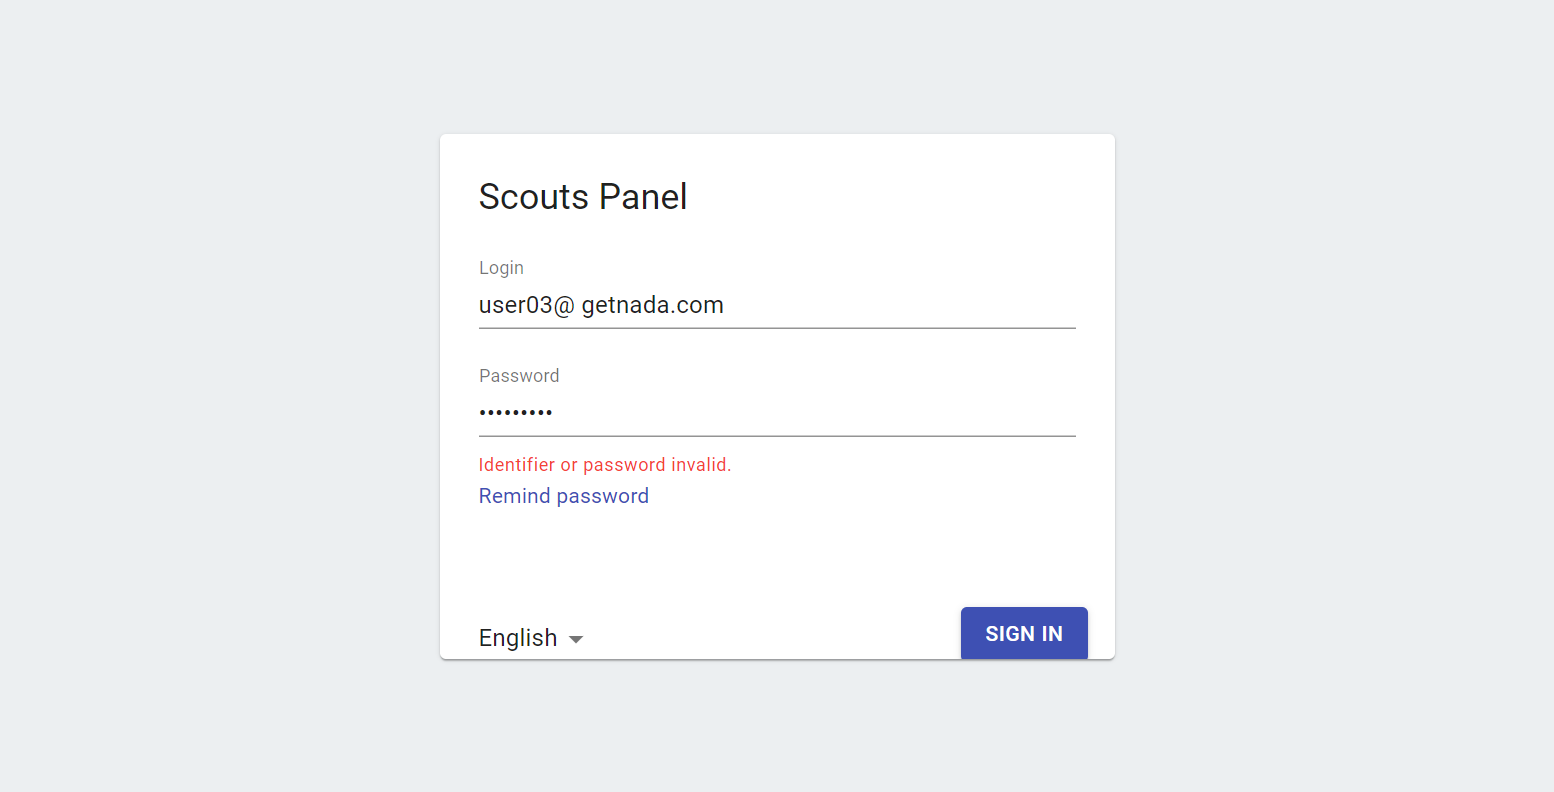
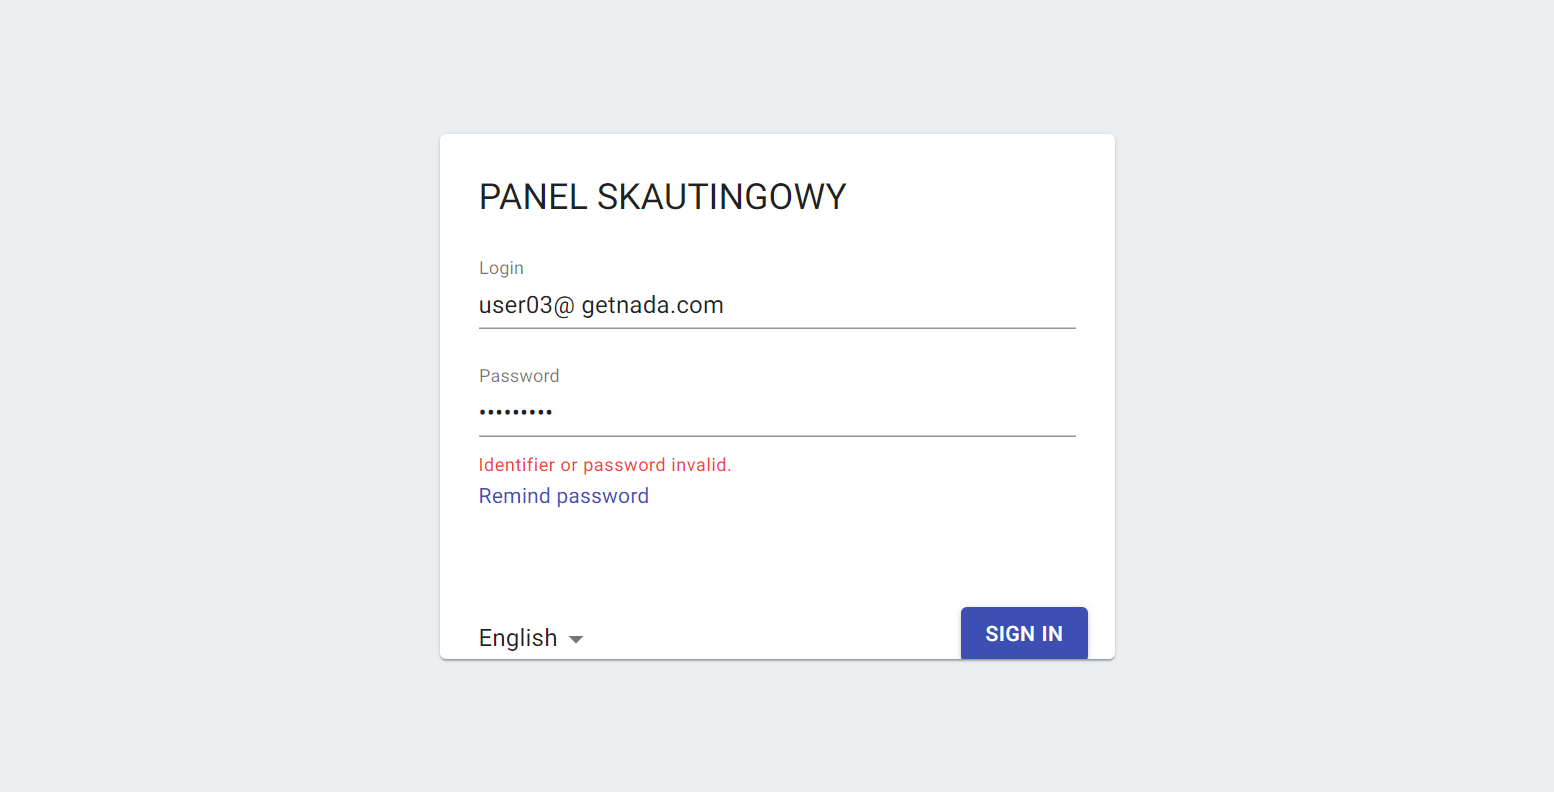
Minor changes
Minor changes to the code due to new website pass

diff --git a/pages/add_player_page.py b/pages/add_player_page.py
@@ -1,22 +1,26 @@
+import time
+
 from pages.base_page import BasePage
 
 
 class AddPlayer(BasePage):
     login_field_xpath = "//input[@id='login']"
-    login_url = "https://scouts-test.futbolkolektyw.pl/en"
+    login_url = "https://scouts.futbolkolektyw.pl/en/"
     password_field_xpath = "//*[@id='password']"
     sign_in_button_xpath = "//*[text()= 'Sign in']"
     expected_title = 'Scouts panel - sign in'
     title_of_box_xpath = "//h5[text()='Scouts Panel']"
     add_name_xpath = "//*[@name ='name']"
-    add_player_url = "https://scouts-test.futbolkolektyw.pl/en/players/add"
+    add_player_url = "https://scouts.futbolkolektyw.pl/en/players/add"
     add_surname_xpath = "//*[@name ='surname']"
     add_age_xpath = "//*[@name ='age']"
     add_main_position_xpath = "//*[@name ='mainPosition']"
     submit_button_xpath = "//*[@type='submit']"
     expected_add_player_title = 'Add player'
+    previous_club_xpath = "//*[@name ='exClub']"
 
     def title_of_page(self):
+        #time.sleep(10)
         assert self.get_page_title(self.add_player_url) == self.expected_add_player_title
 
     def type_in_name(self, name):
@@ -30,6 +34,9 @@ class AddPlayer(BasePage):
 
     def type_in_position(self, pos):
         self.field_send_keys(self.add_main_position_xpath, pos)
+
+    def type_in_previous_club(self, previous_club):
+        self.field_send_keys(self.previous_club_xpath, previous_club)
 
     def click_on_the_add_player_button(self):
         self.wait_for_element_to_be_clickable(self.submit_button_xpath)

diff --git a/test_cases/add_new_player_to_the_system.py b/test_cases/add_new_player_to_the_system.py
@@ -15,7 +15,7 @@ class TestAddPlayer(unittest.TestCase):
     def setUp(self):
         os.chmod(DRIVER_PATH, 755)
         self.driver = webdriver.Chrome(executable_path=DRIVER_PATH)
-        self.driver.get('https://scouts-test.futbolkolektyw.pl/en')
+        self.driver.get('https://scouts.futbolkolektyw.pl/en/')
         self.driver.fullscreen_window()
         self.driver.implicitly_wait(IMPLICITLY_WAIT)
 
@@ -33,6 +33,7 @@ class TestAddPlayer(unittest.TestCase):
         player_surname = 'Surname'
         player_age = '07/07/2007'
         player_position = 'goalkeeper'
+        previous_club = 'none'
 
         add_player = AddPlayer(self.driver)
         add_player.title_of_page()
@@ -40,6 +41,7 @@ class TestAddPlayer(unittest.TestCase):
         add_player.type_in_surname(player_surname)
         add_player.type_in_age(player_age)
         add_player.type_in_position(player_position)
+        add_player.type_in_previous_club(previous_club)
         add_player.click_on_the_add_player_button()
 
         dashboard_page.find_user(player_name + ' ' + player_surname)

diff --git a/pages/login_page.py b/pages/login_page.py
@@ -7,12 +7,12 @@ from selenium.webdriver.support import expected_conditions as EC
 
 class LoginPage(BasePage):
     login_field_xpath = "//input[@id='login']"
-    login_url = "https://scouts-test.futbolkolektyw.pl/en"
+    login_url = "https://scouts.futbolkolektyw.pl/en/"
     password_field_xpath = "//*[@id='password']"
     sign_in_button_xpath = "//*[text()= 'Sign in']"
 
     expected_title = 'Scouts panel - sign in'
-    header_of_box = 'Scouts Panel'
+    header_of_box = 'PANEL SKAUTINGOWY'
     get_password_reminder = "//a"
 
     header_of_box_xpath = '//h5'

diff --git a/test_cases/dashboard_page.py b/test_cases/dashboard_page.py
@@ -15,7 +15,7 @@ class TestDashboardPage(unittest.TestCase):
     def setUp(self):
         os.chmod(DRIVER_PATH, 755)
         self.driver = webdriver.Chrome(executable_path=DRIVER_PATH)
-        self.driver.get('https://scouts-test.futbolkolektyw.pl/en')
+        self.driver.get('https://scouts.futbolkolektyw.pl/en/')
         self.driver.fullscreen_window()
         self.driver.implicitly_wait(IMPLICITLY_WAIT)
 

diff --git a/test_cases/login_to_the_system.py b/test_cases/login_to_the_system.py
@@ -19,7 +19,7 @@ class TestLoginPage(unittest.TestCase):
     def setUp(self):
         os.chmod(DRIVER_PATH, 755)
         self.driver = webdriver.Chrome(executable_path=DRIVER_PATH)
-        self.driver.get('https://scouts-test.futbolkolektyw.pl/en')
+        self.driver.get('https://scouts.futbolkolektyw.pl/en/')
         self.driver.fullscreen_window()
         self.driver.implicitly_wait(IMPLICITLY_WAIT)
 

diff --git a/pages/dashboard.py b/pages/dashboard.py
@@ -9,8 +9,8 @@ from pages.base_page import BasePage
 
 
 class Dashboard(BasePage):
-    expected_title = 'Scouts panel'
-    dashboard_url = "https://scouts-test.futbolkolektyw.pl/"
+    expected_title = 'PANEL SKAUTINGOWY'
+    dashboard_url = "https://scouts.futbolkolektyw.pl/en/"
     wait = WebDriverWait(driver, 10)
 
 
